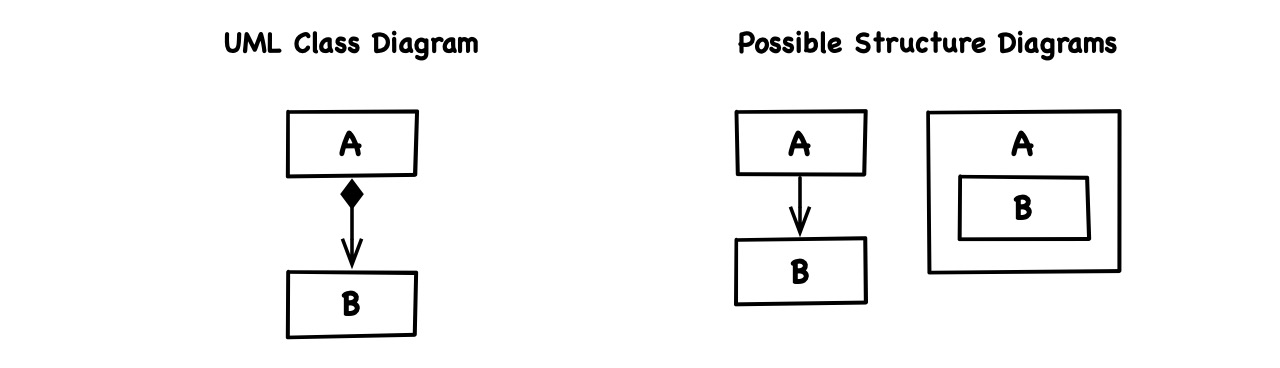
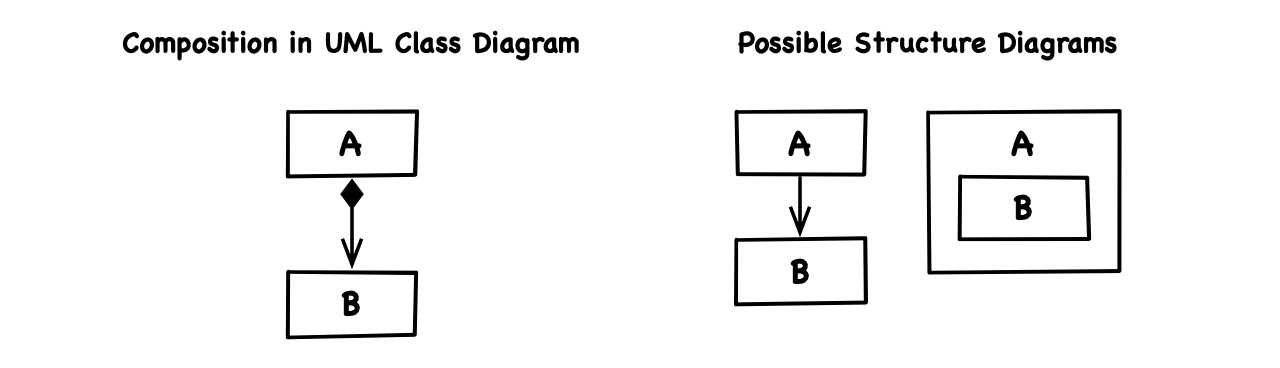
Edit post

Changed region(s): [[0.0938, 0.0897, 0.4688, 0.1793]]

diff --git a/_posts/2019-08-26-code-structure-is-determined-by-dependencies.md b/_posts/2019-08-26-code-structure-is-determined-by-dependencies.md
@@ -155,12 +155,16 @@ For structural dependence itself, the semantics of how artifacts relate is utter
 
 ![](/blog-images/software-development/architecture/uml-arrows.jpg)
 
-The [UML class diagram](https://en.wikipedia.org/wiki/Class_diagram) is a modelling tool that's supposed to convey the meaning of code. But its implicit assumption that meaning is more or less congruent with structure can muddy the water.
+The [UML class diagram](https://en.wikipedia.org/wiki/Class_diagram) is a modelling tool that's supposed to convey the meaning of code. But there's also an implicit assumption that meaning is more or less congruent with structure, and that can muddy the water.
 
-For example, composition in a UML class diagram describes how two represented concepts (from tech- or value environment) relate to another, stating that a composite consists of a component while the component cannot exist alone outside of the composite. That description however tells us very little about how the actual code artifacts relate. `A` must depend on `B` but does it just reference `B` or is it the scope of its part `B`?
+For example, composition in a UML class diagram describes how two concepts (from tech- or value environment) relate to another, stating that a composite consists of a component while the component cannot exist alone outside the composite. While that description can be meaningful, it tells us very little about how the actual code artifacts relate. `A` must depend on `B`, but does it just reference `B` or is it the scope of its part `B`?
 
 ![](/blog-images/software-development/architecture/uml-class-diagram-vs-structure.jpg)
 
-Conceptual and structural composition are similar but orthoganal concepts. We can have each without the other.
+Conceptual and structural composition are similar but orthoganal perspectives. We can have each without the other.
+
+UML offers countless variants of diagrams and all of them have their place. Just note that the diagrams in this book are not UML unless explicitly stated. We just borrow visual elements from UML here and there, like the inheritance arrow to express that a type artifact `A` is of type `B`, through explicity inheritence or conformance:
+
+![](/blog-images/software-development/architecture/dependency-by-inheritance.jpg)
 
 <!-- todo: von meaning abgrenzen, siehe schlechtes bsp. in "a philosophy of ..." wo alle views ihre eigene hintergrundfarbe definiert haben obwohl die value env. impliziert es gäbe nur eine... die tatsache dass man beim ändern einer farbe auch die anderen beachten muss ist keine dependency sondern folgt daraus dass die value environment, also die realität dessen was dargestellt werden soll nicht präzise im code abgebildet ist ...  -->
